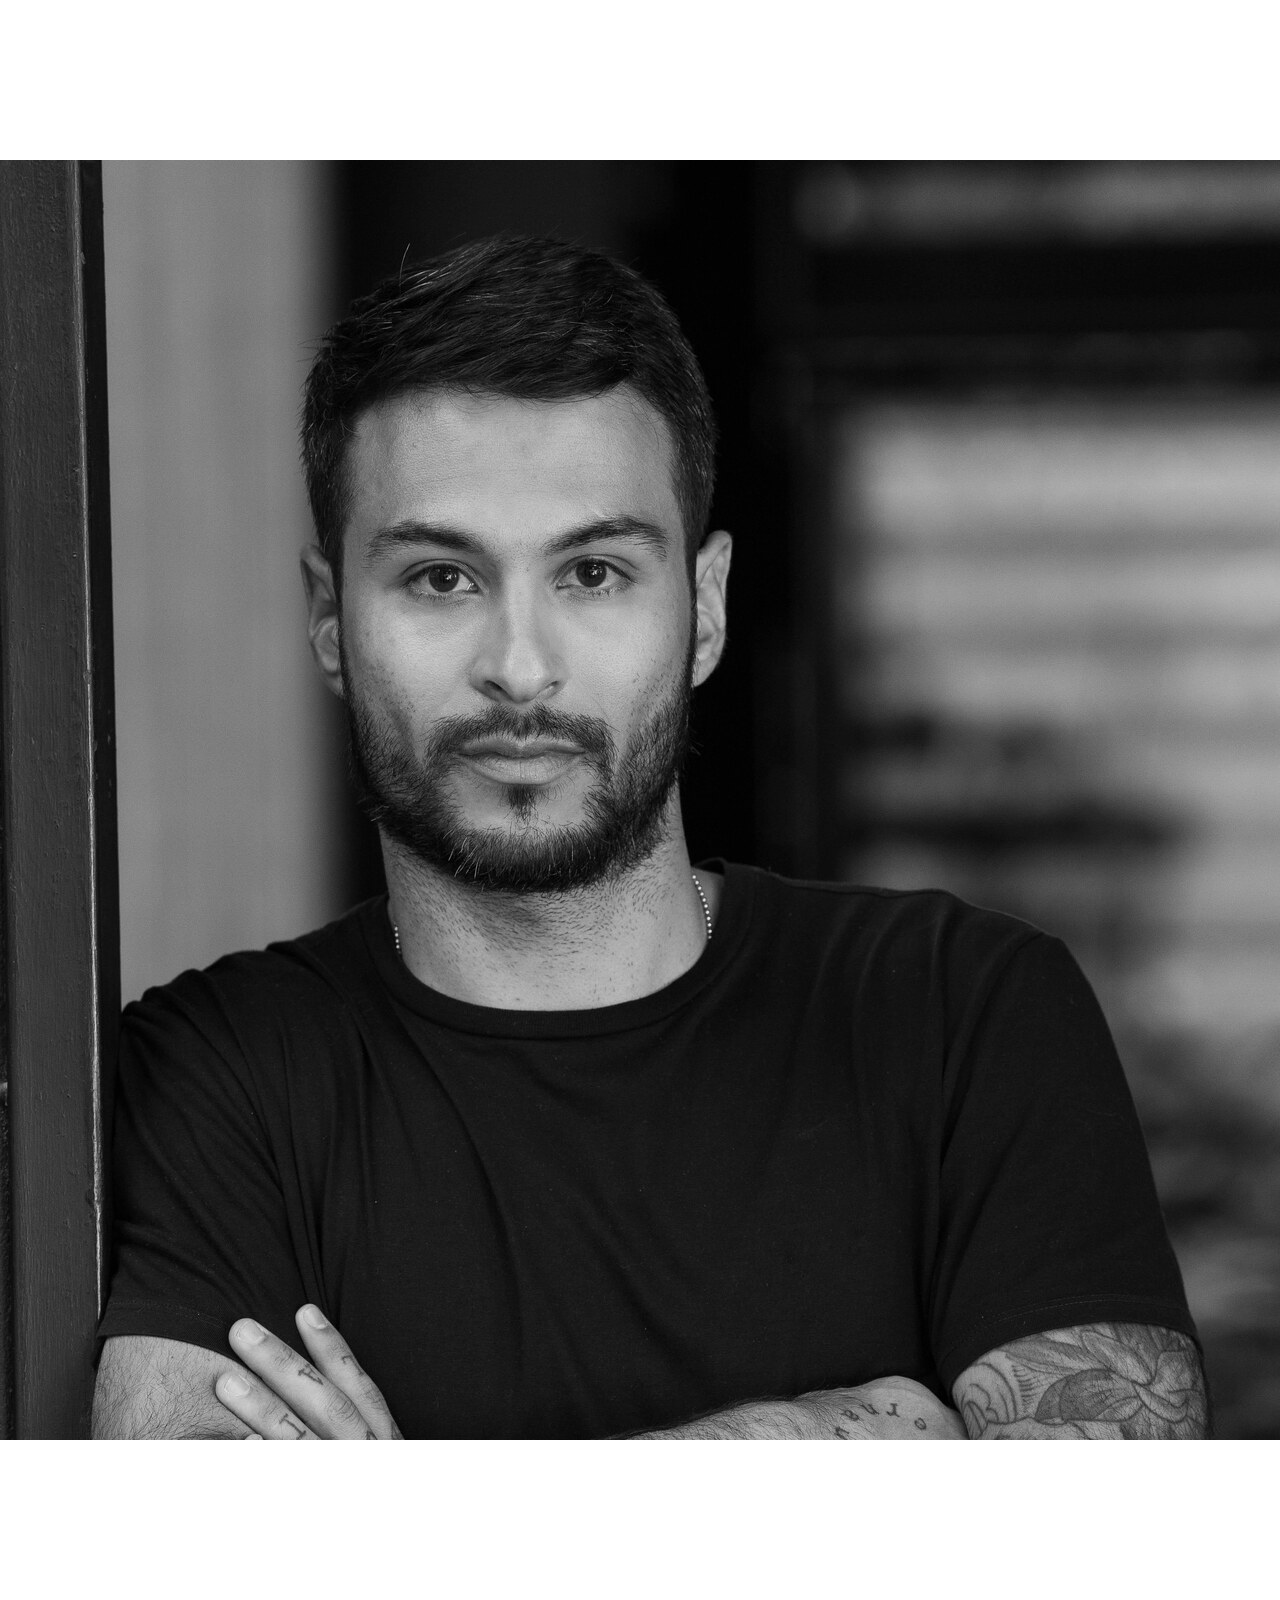
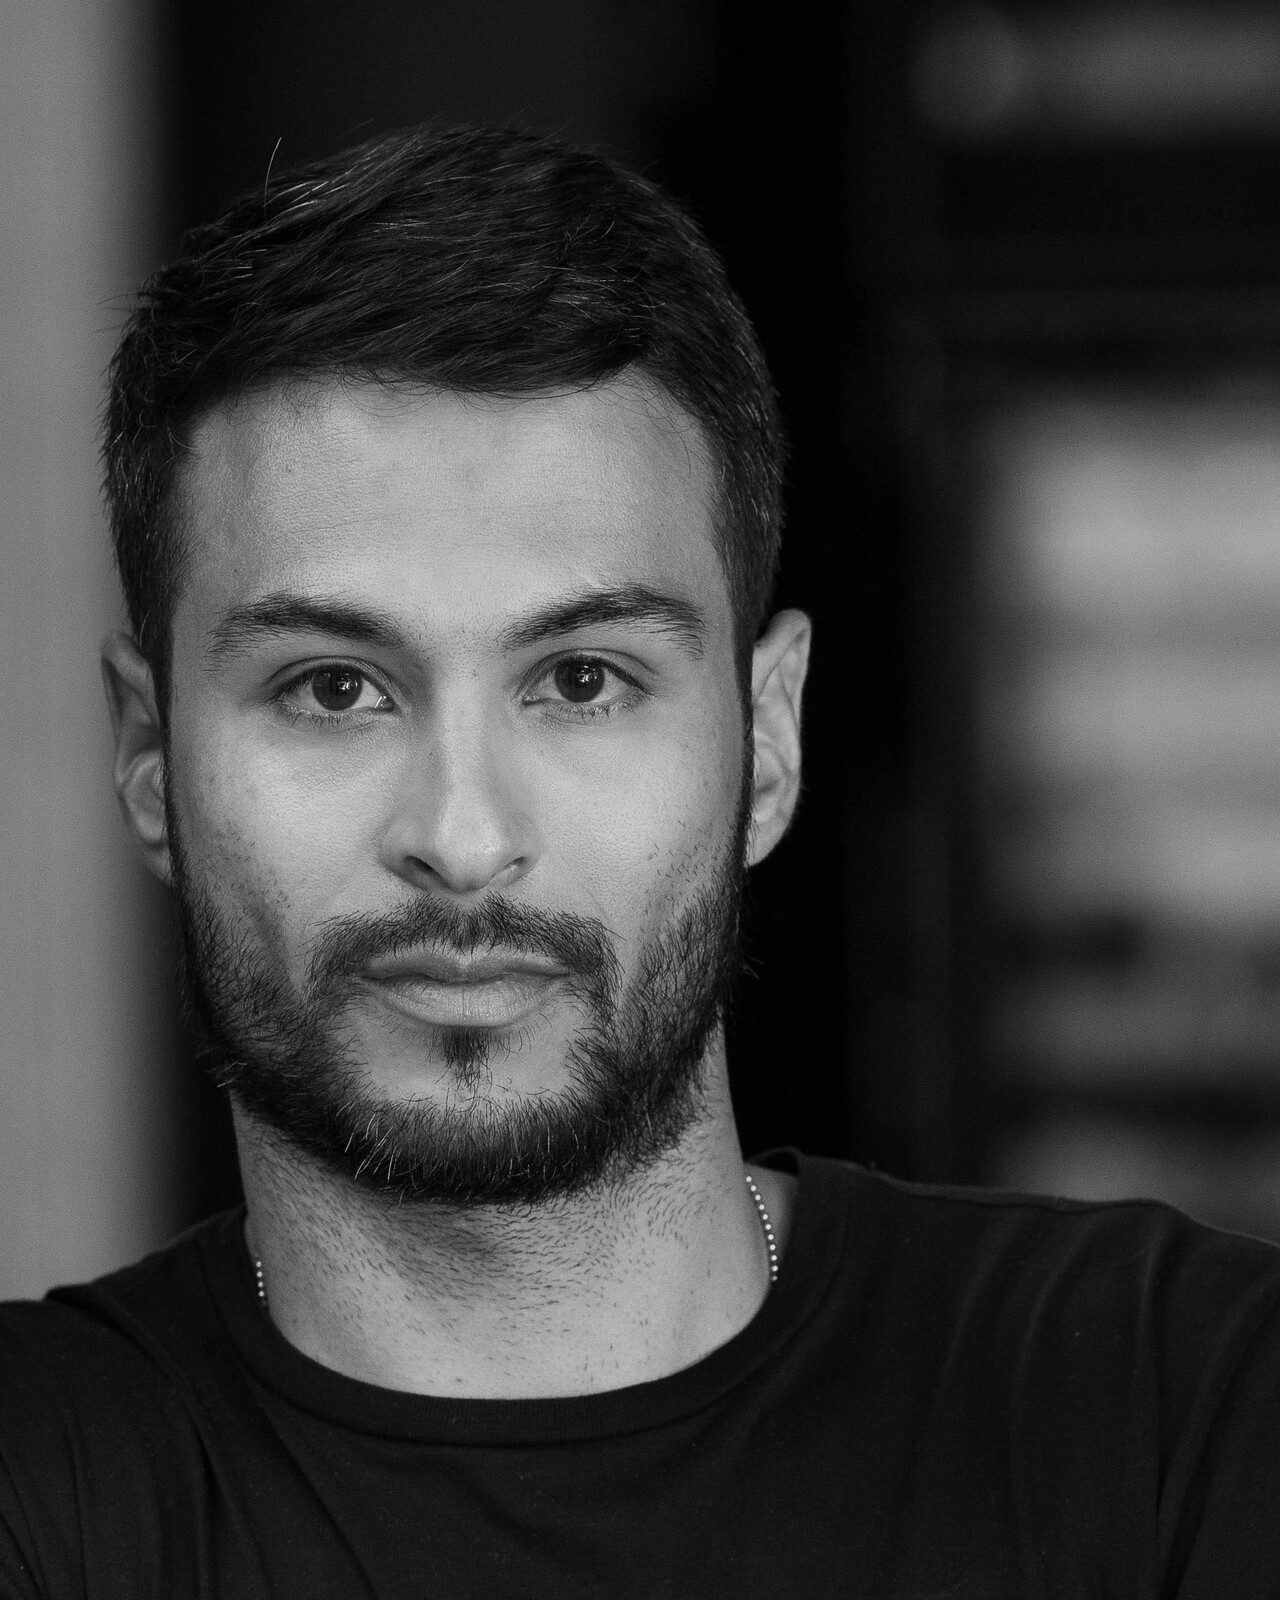
Team photos: re-crop David + Maria to matched head-and-shoulders portraits (same face scale, centered, headroom, nothing cut off); cache-bust ?v=2; caption add Medellin (Miami · Los Angeles · Medellín) + letter-spacing centering fix

diff --git a/about.html b/about.html
@@ -279,7 +279,8 @@
     @media(max-width:980px){.crew-profiles{gap:var(--x4) var(--x4)}}
     @media(max-width:560px){.crew-profiles{grid-template-columns:1fr;gap:var(--x5);max-width:420px}}
     .crew-photo figcaption .crew-cap__name{display:block;color:var(--ink);font-weight:600}
-    .crew-photo figcaption .crew-cap__loc{display:block;margin-top:.6rem;letter-spacing:.32em;color:var(--ink-mute)}
+    .crew-photo figcaption .crew-cap__loc{display:block;margin-top:.6rem;letter-spacing:.28em;padding-left:.28em;color:var(--ink-mute);line-height:1.5}
+    @media(max-width:480px){.crew-photo figcaption .crew-cap__loc{letter-spacing:.18em;padding-left:.18em}}
     .crew-photo figcaption .crew-cap__loc::before{content:"";display:block;width:26px;height:1px;background:var(--ink-line);margin:0 auto .7rem}
     .crew-photo{max-width:880px;margin:var(--x7) auto 0;padding:0 var(--rail)}
     .crew-photo img{display:block;width:100%;height:auto;border:1px solid var(--ink-rule);background:#fff}
@@ -293,7 +294,7 @@
  <article class="profile" id="david">
  <div class="profile__photo">
  <span class="profile__num">01</span>
- <img src="img/team/david.jpg" alt="David Castrillón — Founder &amp; Principal, Astro Station">
+ <img src="img/team/david.jpg?v=2" alt="David Castrillón — Founder &amp; Principal, Astro Station">
  </div>
  <h3 class="profile__name">David Castrillón</h3>
  <div class="profile__role">Founder &amp; Principal</div>
@@ -303,7 +304,7 @@
  <article class="profile" id="maria">
  <div class="profile__photo">
  <span class="profile__num">02</span>
- <img src="img/team/maria.jpg" alt="Maria Bernal — Principal, Interior Design, Astro Station">
+ <img src="img/team/maria.jpg?v=2" alt="Maria Bernal — Principal, Interior Design, Astro Station">
  </div>
  <h3 class="profile__name">Maria Bernal</h3>
  <div class="profile__role">Principal · Interior Design</div>
@@ -315,7 +316,7 @@
  <!-- Team photograph — immediately after the principals -->
  <figure class="crew-photo">
  <img src="img/team/crew.jpg" alt="The Astro Station crew — Miami and Los Angeles" loading="lazy">
- <figcaption><span class="crew-cap__name">The Astro Station Crew</span><span class="crew-cap__loc">Miami · Los Angeles</span></figcaption>
+ <figcaption><span class="crew-cap__name">The Astro Station Crew</span><span class="crew-cap__loc">Miami · Los Angeles · Medellín</span></figcaption>
  </figure>
 </section>
 